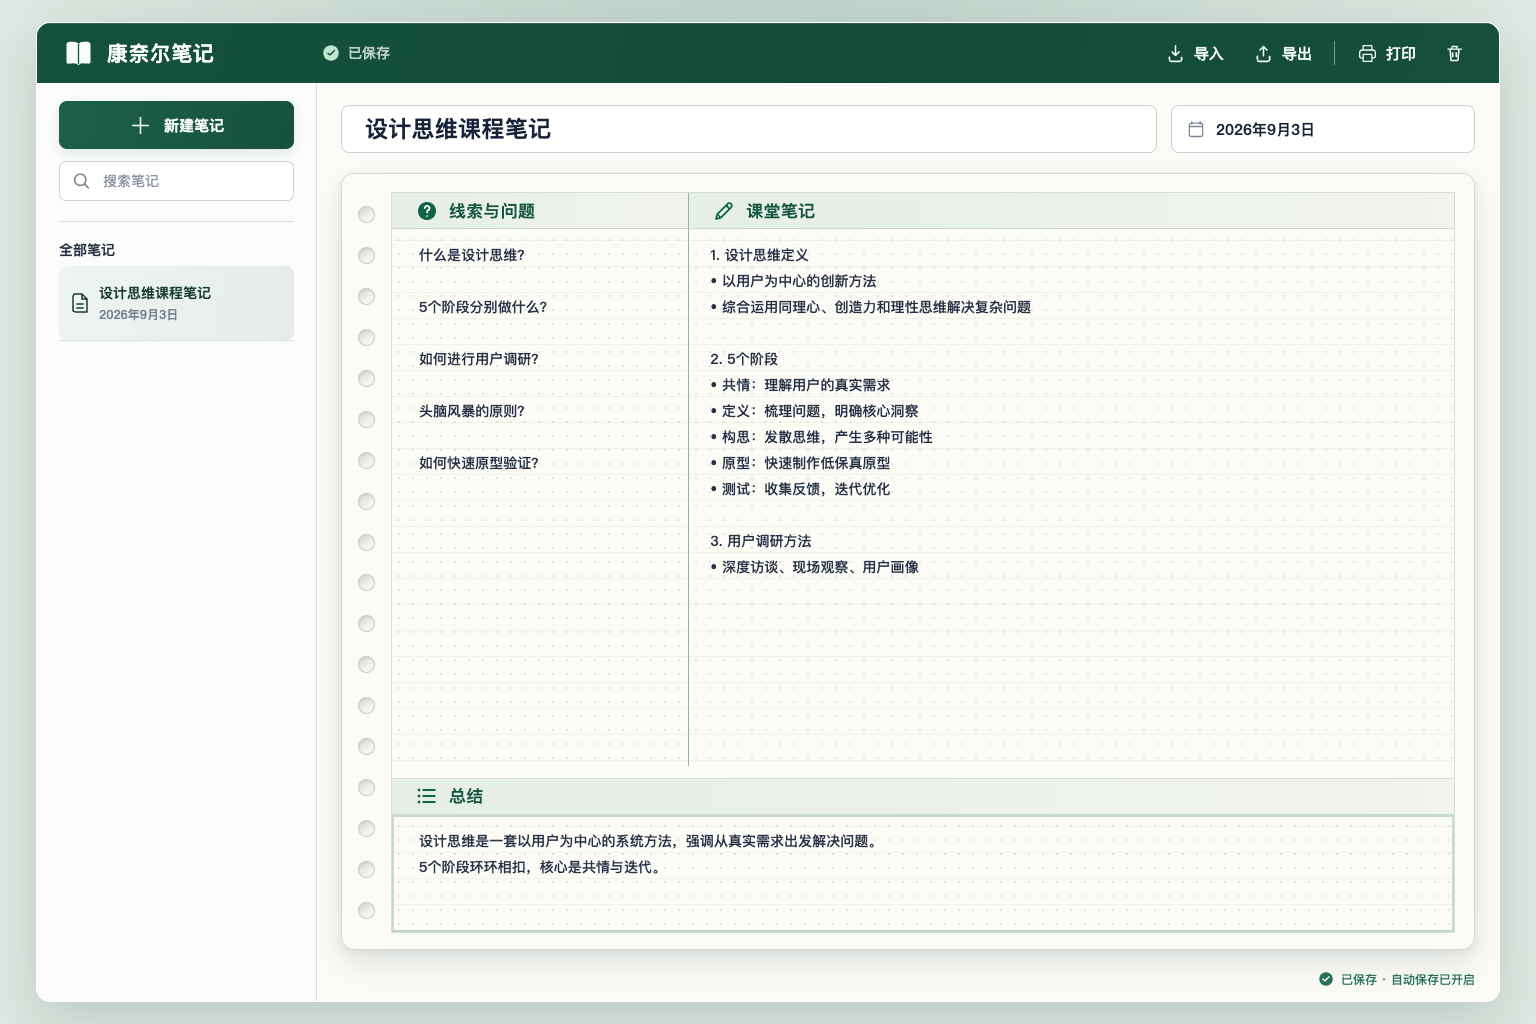
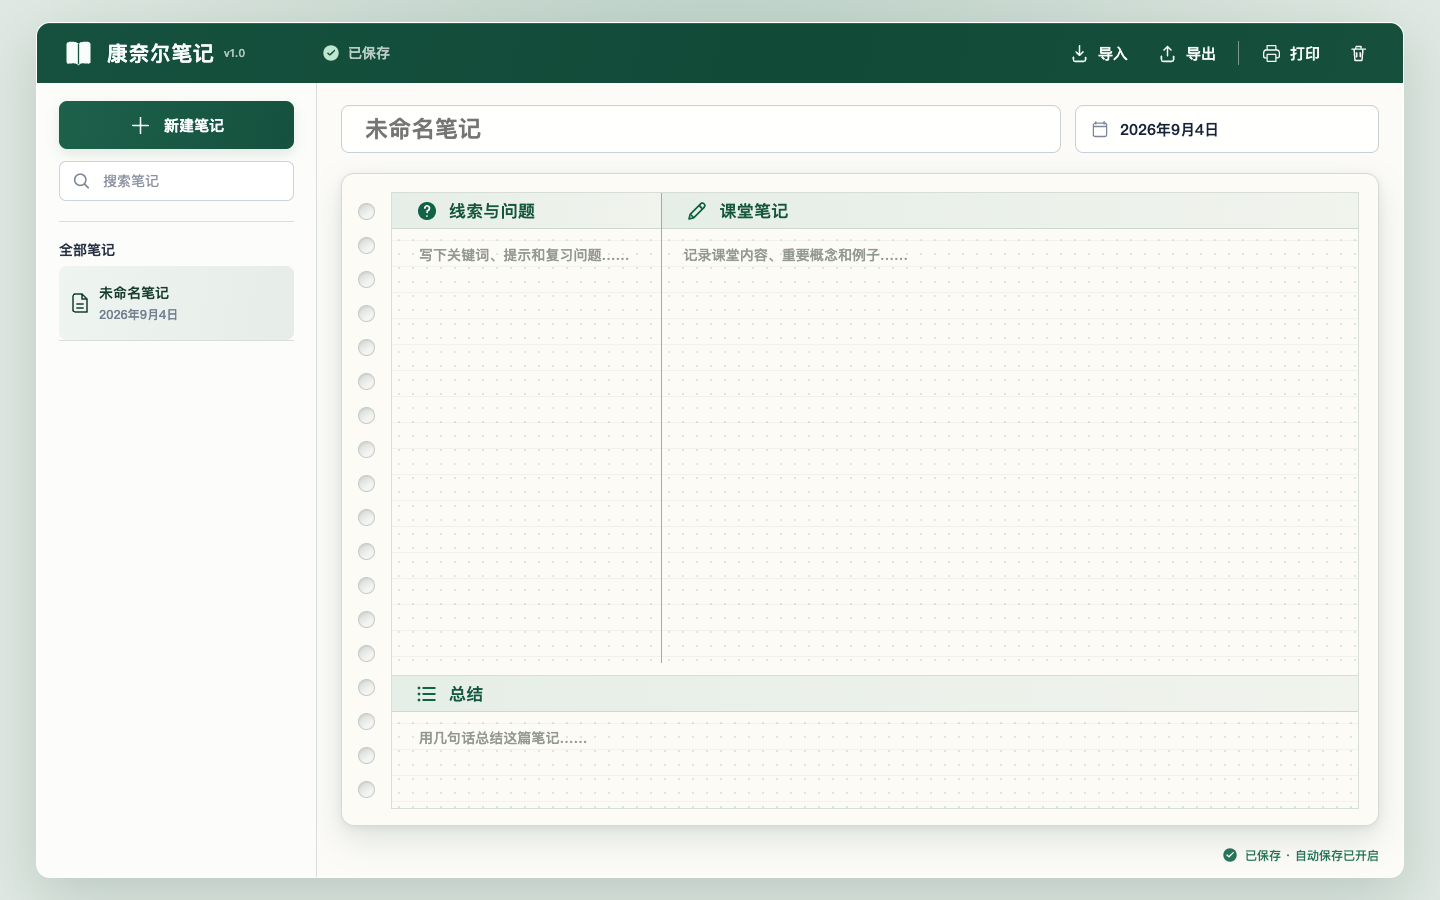
增加了版本号

diff --git a/tests/e2e.spec.js b/tests/e2e.spec.js
@@ -20,6 +20,7 @@ const selectors = {
   title: '#note-title',
   utilityMenu: '[data-testid="utility-menu"]',
   utilityMenuToggle: '#utility-menu-toggle',
+  version: '#app-version',
 };
 
 const savedStatusPattern = /已保存|保存成功|保存于|saved/i;
@@ -73,6 +74,7 @@ async function expectEditorReady(page) {
     selectors.notes,
     selectors.summary,
     selectors.saveStatus,
+    selectors.version,
   ]) {
     await expect(page.locator(selector), `${selector} 应可见`).toBeVisible();
   }
@@ -179,6 +181,15 @@ async function tabUntilFocused(page, selector, maximumTabs = 20) {
 test('首页完整加载，核心控件可用且控制台健康', async ({ page }) => {
   await openApp(page);
   await expectEditorReady(page);
+  await expect(page.locator(selectors.version)).toHaveText('v1.0');
+
+  const [versionBox, saveStatusBox] = await Promise.all([
+    page.locator(selectors.version).boundingBox(),
+    page.locator(selectors.saveStatus).boundingBox(),
+  ]);
+  expect(versionBox).not.toBeNull();
+  expect(saveStatusBox).not.toBeNull();
+  expect(versionBox.x + versionBox.width).toBeLessThanOrEqual(saveStatusBox.x);
 });
 
 test('创建并编辑康奈尔笔记后，刷新仍能恢复全部内容', async ({ page }) => {

diff --git a/index.html b/index.html
@@ -12,12 +12,13 @@
   <body>
     <div class="app-shell" id="app-shell" data-testid="app-shell">
       <header class="topbar" id="topbar" data-testid="topbar">
-        <a class="brand" href="#editor" aria-label="康奈尔笔记首页" data-testid="brand">
+        <a class="brand" href="#editor" aria-label="康奈尔笔记首页，当前版本 1.0" data-testid="brand">
           <svg class="brand-icon" viewBox="0 0 32 32" aria-hidden="true">
             <path d="M3.5 6.7c0-1.5 1.2-2.7 2.7-2.7h5.3c2 0 3.6.7 4.5 2.1.9-1.4 2.5-2.1 4.5-2.1h5.3c1.5 0 2.7 1.2 2.7 2.7v18.1c0 1-.9 1.8-1.9 1.7l-5.9-.4c-1.6-.1-3.2.5-4.2 1.8l-.5.6-.5-.6c-1-1.3-2.6-1.9-4.2-1.8l-5.9.4c-1 .1-1.9-.7-1.9-1.7V6.7Z" fill="currentColor" />
             <path d="M16 6.2v20.9" fill="none" stroke="#15543f" stroke-width="1.35" />
           </svg>
           <span>康奈尔笔记</span>
+          <span class="app-version" id="app-version" data-testid="app-version" aria-hidden="true">v1.0</span>
         </a>
 
         <div class="save-status" id="save-status" data-testid="save-status" role="status" aria-live="polite">

diff --git a/styles.css b/styles.css
@@ -139,6 +139,16 @@ textarea {
   color: #f8fdfb;
 }
 
+.app-version {
+  align-self: center;
+  margin-left: 10px;
+  color: rgba(247, 251, 249, 0.68);
+  font-size: 11px;
+  font-weight: 650;
+  line-height: 1;
+  letter-spacing: 0.04em;
+}
+
 .save-status {
   display: inline-flex;
   align-items: center;
@@ -868,6 +878,11 @@ textarea {
     margin-right: 10px;
   }
 
+  .app-version {
+    margin-left: 8px;
+    font-size: 10px;
+  }
+
   .save-status {
     justify-self: end;
     margin-right: 17px;
@@ -1240,6 +1255,10 @@ textarea {
     width: 26px;
     height: 26px;
     margin-right: 8px;
+  }
+
+  .app-version {
+    margin-left: 7px;
   }
 
   .save-status {
